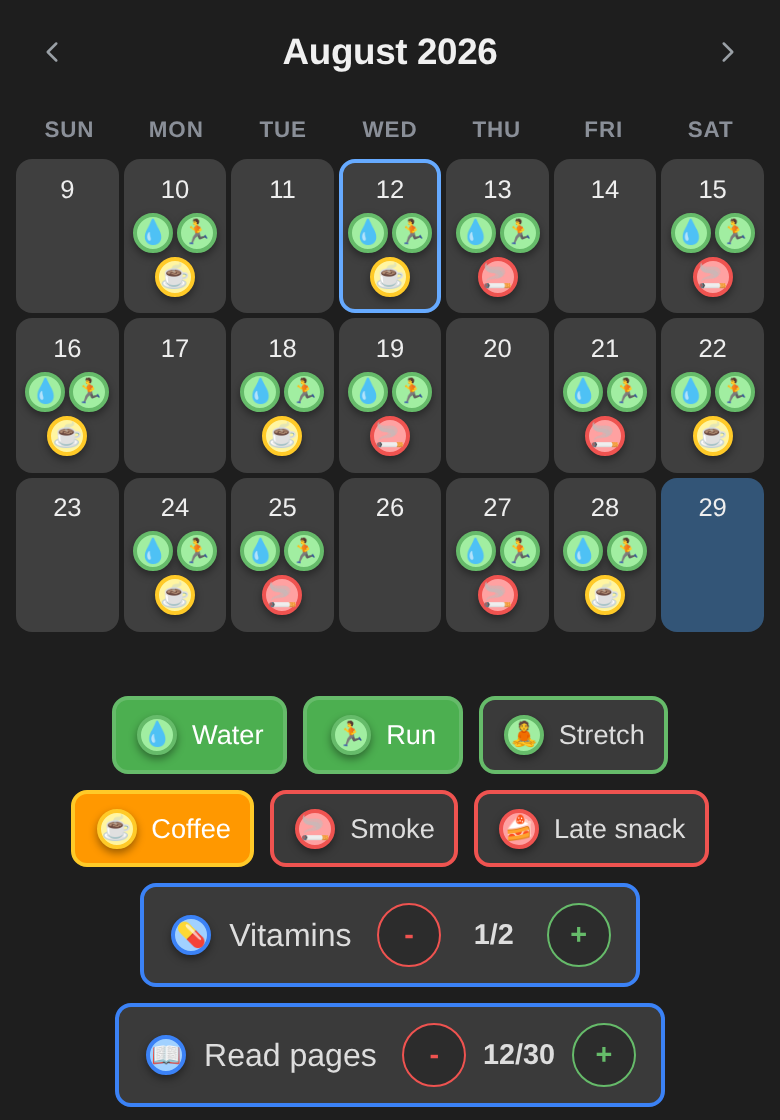
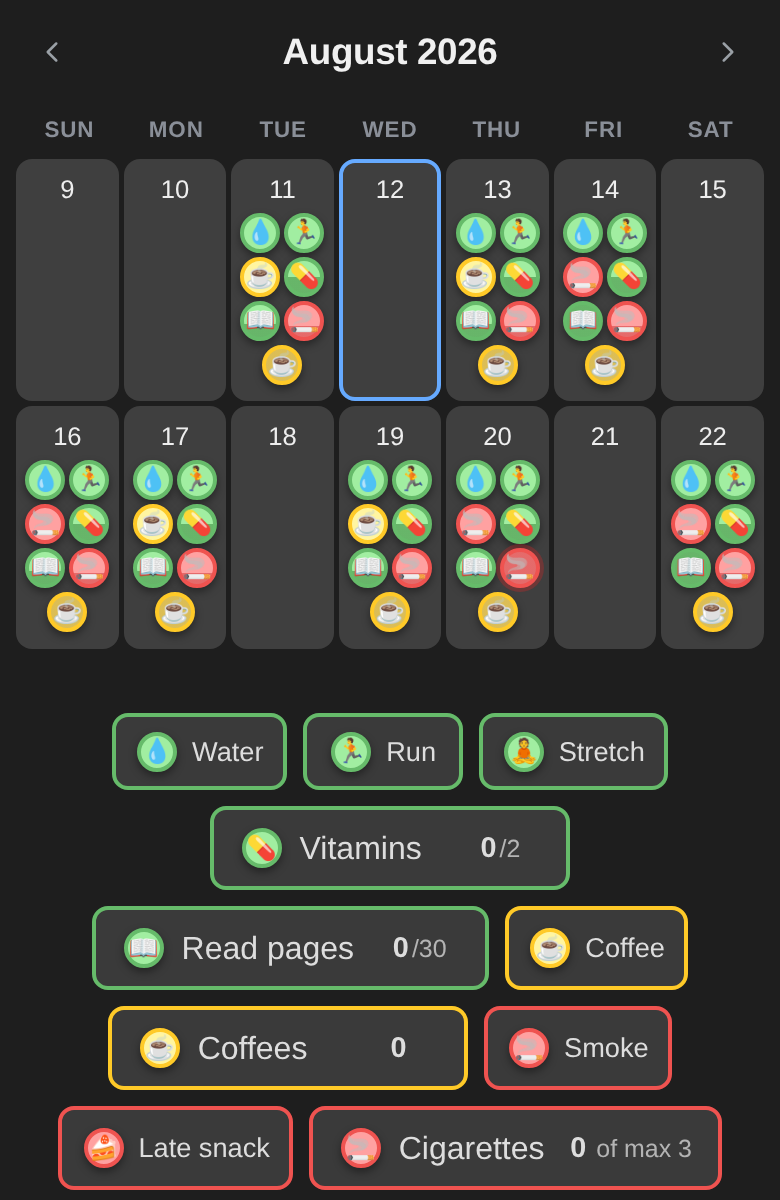
teach three kinds, not four
The guide's second slide said "Four kinds of habit" over a drawn counter
widget with its own minus and plus. Both were wrong the moment counting
stopped being a type, and the slide is the first thing a new arrival
reads.

It now says good, bad or neutral, with a fourth chip that is a good habit
carrying a number - which is the whole point: the counted one is the same
shape as the one above it, not a different kind of thing.

The screenshots on slides one and six were regenerated through the
harness. They were showing blue counter chips for a type that no longer
exists, and a calendar whose partial counters could not appear. The new
seed carries one of each: a counted good habit, a neutral tally, and a
bad habit with a limit - so the example month now shows a cigarette count
over its limit wearing the mark for it.

Reframed to two weeks rather than three, because ten habits make a taller
button block than eight did and the old crop cut it off mid-row.

The drawn counter widget's styles went with the slide, along with the
counter chip colour, which had no type left to name.

diff --git a/intro.js b/intro.js
@@ -37,39 +37,35 @@ const SLIDES = [
     // the app the slide is explaining. Both themes ship because a light
     // screenshot on a dark card looks like a bug.
     artClass: 'is-shot',
-    art: `<img class="intro-pic intro-pic-light" src="example-month.png?v=2.0.0"
+    art: `<img class="intro-pic intro-pic-light" src="example-month.png?v=2.0.1"
                alt="The calendar with habit icons on most days, above the habit buttons" width="390" height="560">
-          <img class="intro-pic intro-pic-dark" src="example-month-dark.png?v=2.0.0"
+          <img class="intro-pic intro-pic-dark" src="example-month-dark.png?v=2.0.1"
                alt="The calendar with habit icons on most days, above the habit buttons" width="390" height="560">`,
     title: 'Tap a day, then tap what you did',
     body: 'The icons on a day are what you logged against it.'
   },
   {
-    // Naming, the three tap-once types and the counter were a slide each.
-    // They are one idea seen four ways - what a habit can be - and paging
-    // through four near-identical cards to learn it was the wrong shape.
+    // Three kinds, one of which is counted, rather than four kinds one of
+    // which is a counter. The chips carry it: same three shapes, and the one
+    // with a number on it is a good habit like the one above it.
     art: `<div class="intro-art-chips">
             <span class="intro-chip good"><span class="intro-chip-emoji good">💧</span> Water</span>
             <span class="intro-chip neutral"><span class="intro-chip-emoji neutral">☕</span> Coffee</span>
             <span class="intro-chip bad"><span class="intro-chip-emoji bad">🚬</span> Smoke</span>
-            <span class="intro-art-counter">
-              <span class="intro-chip-emoji counter">💊</span>
-              <span class="intro-counter-name">Vitamins</span>
-              <span class="intro-counter-btn minus">−</span>
-              <span class="intro-counter-value">1/2</span>
-              <span class="intro-counter-btn plus">+</span>
+            <span class="intro-chip good"><span class="intro-chip-emoji good">📖</span> Read pages
+              <span class="intro-chip-count">12<span class="intro-chip-goal">/30</span></span>
             </span>
           </div>`,
-    title: 'Four kinds of habit',
-    body: 'Good, bad and neutral are one tap; a counter has a daily goal.'
+    title: 'Good, bad, or neutral',
+    body: 'Any of them can count instead of being a single tap.'
   },
   {
     // The gear, because "in settings" is not much use to someone who has not
     // worked out that the one button in the header is a button
     artClass: 'is-strip',
-    art: `<img class="intro-pic intro-pic-light" src="example-gear.png?v=2.0.0"
+    art: `<img class="intro-pic intro-pic-light" src="example-gear.png?v=2.0.1"
                alt="The Manage Habits button in the top right of the header" width="390" height="64">
-          <img class="intro-pic intro-pic-dark" src="example-gear-dark.png?v=2.0.0"
+          <img class="intro-pic intro-pic-dark" src="example-gear-dark.png?v=2.0.1"
                alt="The Manage Habits button in the top right of the header" width="390" height="64">`,
     title: 'The gear opens Manage Habits',
     body: 'Add, rename and reorder your habits from there.'

diff --git a/index.html b/index.html
@@ -8,7 +8,7 @@
        ThemeManager, since the theme is a manual choice rather than a media
        query and the manifest can only carry one fixed colour. -->
   <meta name="theme-color" content="#f5f5f5">
-  <link rel="stylesheet" href="styles.css?v=2.0.0">
+  <link rel="stylesheet" href="styles.css?v=2.0.1">
   <link rel="manifest" href="manifest.json">
 </head>
 <body>
@@ -55,7 +55,7 @@
       </div>
       <div class="modal-about" id="modal-about" tabindex="-1" hidden>
         <h3 class="about-name">Habit Tracker</h3>
-        <p class="about-version" id="about-version">v2.0.0</p>
+        <p class="about-version" id="about-version">v2.0.1</p>
         <p class="about-line">A calendar for the things you are trying to do more of, and less of.</p>
         <p class="about-line">Everything is kept on this device. There is no account and no server, so back it up from time to time.</p>
         <button class="about-action" id="about-guide">
@@ -122,21 +122,21 @@
               <svg viewBox="0 0 24 24" aria-hidden="true"><circle cx="12" cy="12" r="9"/><line x1="12" y1="11" x2="12" y2="16"/><line x1="12" y1="7.6" x2="12" y2="7.7"/></svg>
             </button>
           </div>
-          <span class="modal-version">v2.0.0</span>
+          <span class="modal-version">v2.0.1</span>
         </div>
       </div>
     </div>
   </div>
-<script src="emoji-utils.js?v=2.0.0"></script>
-<script src="data-manager.js?v=2.0.0"></script>
-<script src="file-backup.js?v=2.0.0"></script>
-<script src="calendar-view.js?v=2.0.0"></script>
-<script src="habits-view.js?v=2.0.0"></script>
-<script src="day-sheet.js?v=2.0.0"></script>
-<script src="habit-manager.js?v=2.0.0"></script>
-<script src="intro.js?v=2.0.0"></script>
-<script src="theme-manager.js?v=2.0.0"></script>
-<script src="import-export-manager.js?v=2.0.0"></script>
-<script src="script.js?v=2.0.0"></script>
+<script src="emoji-utils.js?v=2.0.1"></script>
+<script src="data-manager.js?v=2.0.1"></script>
+<script src="file-backup.js?v=2.0.1"></script>
+<script src="calendar-view.js?v=2.0.1"></script>
+<script src="habits-view.js?v=2.0.1"></script>
+<script src="day-sheet.js?v=2.0.1"></script>
+<script src="habit-manager.js?v=2.0.1"></script>
+<script src="intro.js?v=2.0.1"></script>
+<script src="theme-manager.js?v=2.0.1"></script>
+<script src="import-export-manager.js?v=2.0.1"></script>
+<script src="script.js?v=2.0.1"></script>
 </body>
 </html>

diff --git a/sw.js b/sw.js
@@ -18,32 +18,32 @@
 // request for the next, which is what makes a stale stylesheet against a
 // fresh index.html impossible - the failure that made this necessary.
 // tools/check-sw-cache.sh enforces that they agree.
-const CACHE_NAME = 'habit-tracker-v2.0.0';
+const CACHE_NAME = 'habit-tracker-v2.0.1';
 
 const ASSETS = [
   './',
   './index.html',
-  './styles.css?v=2.0.0',
+  './styles.css?v=2.0.1',
   './manifest.json',
   './icon-192.png',
   './icon-512.png',
   './icon-maskable-512.png',
-  './emoji-utils.js?v=2.0.0',
-  './data-manager.js?v=2.0.0',
-  './file-backup.js?v=2.0.0',
-  './calendar-view.js?v=2.0.0',
-  './habits-view.js?v=2.0.0',
-  './day-sheet.js?v=2.0.0',
-  './habit-manager.js?v=2.0.0',
-  './intro.js?v=2.0.0',
+  './emoji-utils.js?v=2.0.1',
+  './data-manager.js?v=2.0.1',
+  './file-backup.js?v=2.0.1',
+  './calendar-view.js?v=2.0.1',
+  './habits-view.js?v=2.0.1',
+  './day-sheet.js?v=2.0.1',
+  './habit-manager.js?v=2.0.1',
+  './intro.js?v=2.0.1',
   // Slide one of the explainer, in both themes
-  './example-month.png?v=2.0.0',
-  './example-month-dark.png?v=2.0.0',
-  './example-gear.png?v=2.0.0',
-  './example-gear-dark.png?v=2.0.0',
-  './theme-manager.js?v=2.0.0',
-  './import-export-manager.js?v=2.0.0',
-  './script.js?v=2.0.0'
+  './example-month.png?v=2.0.1',
+  './example-month-dark.png?v=2.0.1',
+  './example-gear.png?v=2.0.1',
+  './example-gear-dark.png?v=2.0.1',
+  './theme-manager.js?v=2.0.1',
+  './import-export-manager.js?v=2.0.1',
+  './script.js?v=2.0.1'
 ];
 
 self.addEventListener('install', event => {

diff --git a/styles.css b/styles.css
@@ -2128,57 +2128,6 @@ input, select, button {
   background: #ffcdd2;
 }
 
-.intro-chip-emoji.counter {
-  border-color: #1a73e8;
-  background: #d6e6fb;
-}
-
-.intro-art-counter {
-  display: inline-flex;
-  align-items: center;
-  gap: 0.5rem;
-  padding: 0.45rem 0.7rem;
-  border: 2px solid #1a73e8;
-  border-radius: 12px;
-  background: #fff;
-  font-size: 0.85rem;
-}
-
-.intro-counter-name {
-  min-width: 4.5rem;
-  text-align: left;
-}
-
-.intro-counter-btn {
-  display: inline-flex;
-  align-items: center;
-  justify-content: center;
-  width: 26px;
-  height: 26px;
-  border-radius: 50%;
-  font-size: 0.9rem;
-}
-
-.intro-counter-btn.minus {
-  border: 1.5px solid #e57373;
-  color: #c62828;
-}
-
-.intro-counter-btn.plus {
-  border: 1.5px solid #81c784;
-  color: #2e7d32;
-}
-
-.intro-counter-value {
-  min-width: 2rem;
-  font-weight: 600;
-}
-
-.dark-mode .intro-art-counter {
-  background: #3a3a3a;
-  color: #ddd;
-}
-
 /* === BACKUP SLIDE: THE CONTROLS, LABELLED === */
 /* One grid so each leader line and label land under their own control
    automatically - three separate rows would need the widths kept in step by
@@ -3048,4 +2997,17 @@ input, select, button {
 .dark-mode .habit-screen-unit,
 .dark-mode .habit-screen-word {
   color: #a0a6ad;
+}
+
+/* The counted chip on the kinds slide */
+.intro-chip-count {
+  margin-left: 0.35rem;
+  font-weight: 700;
+  font-variant-numeric: tabular-nums;
+}
+
+.intro-chip-goal {
+  font-size: 0.78em;
+  font-weight: 400;
+  opacity: 0.7;
 }

diff --git a/tools/screenshots/shoot.py b/tools/screenshots/shoot.py
@@ -353,8 +353,8 @@ SHOTS = [
     ('nudge-390-off',      390,  844, 'seed=1&stale=9&remindoff=1'),
     ('remind-toggle-390',  390,  844, 'seed=1&stale=9&open=manage&tab=good'),
     ('remind-toggle-390-dark', 390, 844, 'seed=1&stale=9&open=manage&tab=good&theme=dark'),
-    ('example-month',      390,  560, 'seed=1&only=app&skipweeks=2&weeks=3&select=12'),
-    ('example-month-dark', 390,  560, 'seed=1&only=app&skipweeks=2&weeks=3&select=12&theme=dark'),
+    ('example-month',      390,  600, 'seed=1&only=app&skipweeks=2&weeks=2&select=12'),
+    ('example-month-dark', 390,  600, 'seed=1&only=app&skipweeks=2&weeks=2&select=12&theme=dark'),
     ('example-gear',       390,   64, 'seed=1&only=header&ring=%23manage-habits-button'),
     ('example-gear-dark',  390,   64, 'seed=1&only=header&ring=%23manage-habits-button&theme=dark'),
     ('example-data',       390,  600, 'seed=1&open=manage&tab=good&ring=.file-backup,.backup-remind,.modal-footer'),
